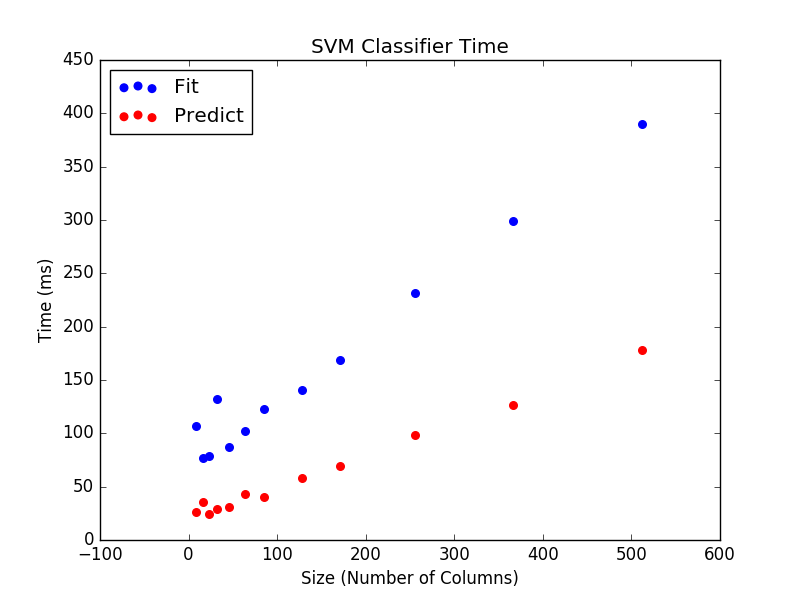
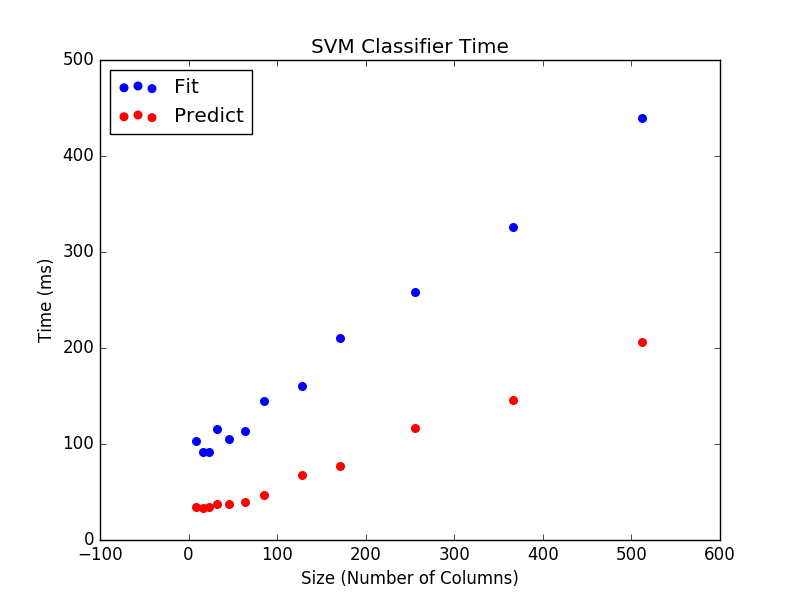
add six-way clf test

diff --git a/speed_test.py b/speed_test.py
@@ -118,10 +118,11 @@ def do_predict(clf, test_X, test_y, print_out=False):
           (pred_score, pred_correct, test_y.shape[0]))
     return pred_y, pred_score
 
-def time_fit_pred(clf, dfx, dfy, var='TF', num=10, rp=3):
+def time_fit_predict(clf, dfx, dfy, var='TF', num=10, rp=3):
     '''time fit and predict with classifier clf on training set dfx, dfy
        using num loops and rp repeats'''
-    
+
+    print("time_fit_predict: var", var)    
     # dfy['TF'] has two states (0, 1)
     def fit_clf():
         do_fit(clf, dfx, dfy['TF'])
@@ -180,29 +181,31 @@ def time_cv(clf, dfx, dfy, var='TF', num=10, rp=3):
 
     return tfit
 
-def time_size_fit_predict(clf, dftrain, dftrain_y, rowf=4, colf=4, num=10):
+def time_size_fit_predict(clf, dftrain, dftrain_y, rowf=4, colf=4, num=10, var='TF'):
+#    print("time_size_fit_predict: num", num)
     dfx, dfy = get_partial_data(dftrain, dftrain_y, rowf, colf)
-    tfit, tpred = time_fit_pred(clf, dfx, dfy, num)
+    tfit, tpred = time_fit_predict(clf, dfx, dfy, var, num)
     return tfit, tpred, dfx.shape
 
-def time_fit_predict_array(clf, dftrain, dftrain_y, axis=0, fixed=4, arr=[16,8,4,2,1], num=10):
+def time_fit_predict_array(clf, dftrain, dftrain_y, axis=0, fixed=4, arr=[16,8,4,2,1], num=10, var='TF'):
     '''Time fit, predict for classifier clf for arrayed columns or rows.
        The axis parameter is 0 for row, 1 for column array, as in pandas.'''
 
     fits = []
     preds = []
     shapes = []
-    # do one warmup, does not help
-#    time_size_fit_predict(clf, dftrain, dftrain_y, rowf=fixed, colf=4, num=num)
     if axis==1:
         for col in arr:
-            tfit, tpred, shape = time_size_fit_predict(clf, dftrain, dftrain_y, rowf=fixed, colf=col, num=num)
+            numc = int(num * col / min(arr))    # num calc
+            # from timing, not linear, maybe quadratic, depends on clf
+            tfit, tpred, shape = time_size_fit_predict(clf, dftrain, dftrain_y, rowf=fixed, colf=col, num=numc, var=var)
             fits.append(tfit)
             preds.append(tpred)
             shapes.append(shape)
     else:
         for row in arr:
-            tfit, tpred, shape = time_size_fit_predict(clf, dftrain, dftrain_y, rowf=row, colf=fixed, num=num)
+            numc = int(num * row / min(arr))    # num calc
+            tfit, tpred, shape = time_size_fit_predict(clf, dftrain, dftrain_y, rowf=row, colf=fixed, num=numc, var=var)
             fits.append(tfit)
             preds.append(tpred)
             shapes.append(shape)
@@ -238,7 +241,7 @@ def main():
     do_fit(clf, dfx, dfy['TF'], print_out=True)
     do_predict(clf, dfx, dfy['TF'], print_out=True)  # should run on test data
     
-    tfit, tpred = time_fit_pred(clf, dfx, dfy, num=30)
+    tfit, tpred = time_fit_predict(clf, dfx, dfy, num=30)
     print("df shape %s svm time: fit %.3f ms, predict %.3f ms" % (dfx.shape, tfit, tpred))
     
 #    cross_validate(clf, dfx, dfy['TF'], print_out=True)
@@ -249,8 +252,8 @@ def main():
     
     clf = svm.SVC(kernel='linear', C=1, cache_size=1000)
     
-    nn = 100
-    result = time_fit_predict_array(clf, dftrain, dftrain_y, axis=1, fixed=4, num=nn)
+    nn = 10
+    result = time_fit_predict_array(clf, dftrain, dftrain_y, axis=1, fixed=4, num=nn, var='TF')
     print_time_results(result)
     plot_time_results(result, "SVM", "medium_columns_svm", plotdir)
     
@@ -258,6 +261,7 @@ def main():
     print_time_results(result)
     plot_time_results(result, "SVM", "medium_rows_svm", plotdir)
     
+    # seems to be exceedingly slow since adding var
     a1 = [64,32,22,16,11,8,6,4,3,2,1.4,1]
     result = time_fit_predict_array(clf, dftrain, dftrain_y, axis=1, fixed=1, arr=a1, num=nn)
     print_time_results(result)
@@ -268,7 +272,11 @@ def main():
     print_time_results(result)
     plot_time_results(result, "SVM", "large_rows_svm", plotdir)
     
-# to do: increase num and rp for smaller datasets?
+    result = time_fit_predict_array(clf, dftrain, dftrain_y, axis=1, fixed=4, num=nn, var='Y')
+    print_time_results(result)
+    plot_time_results(result, "SVM", "medium_columnsY_svm", plotdir)
+    
+# to do: increase num and rp for smaller datasets?  try rp=10?
     # fix plot limits
     # use test data for predict
     # add more classifiers
